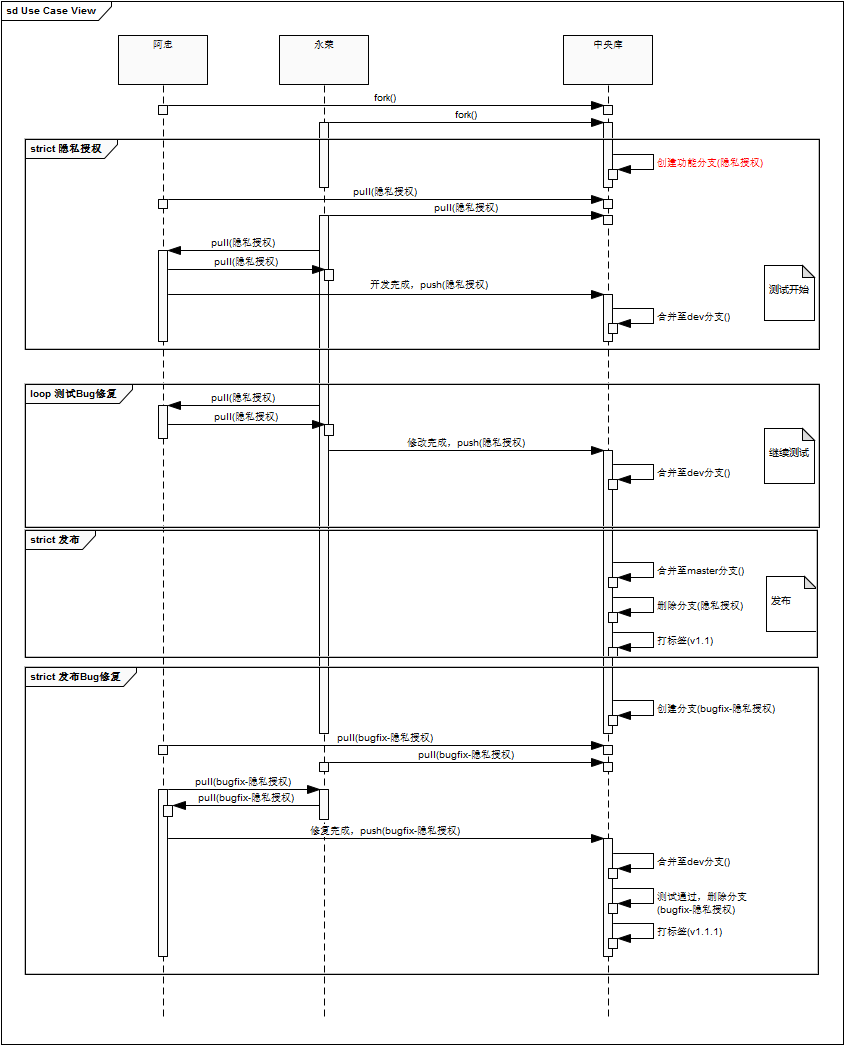
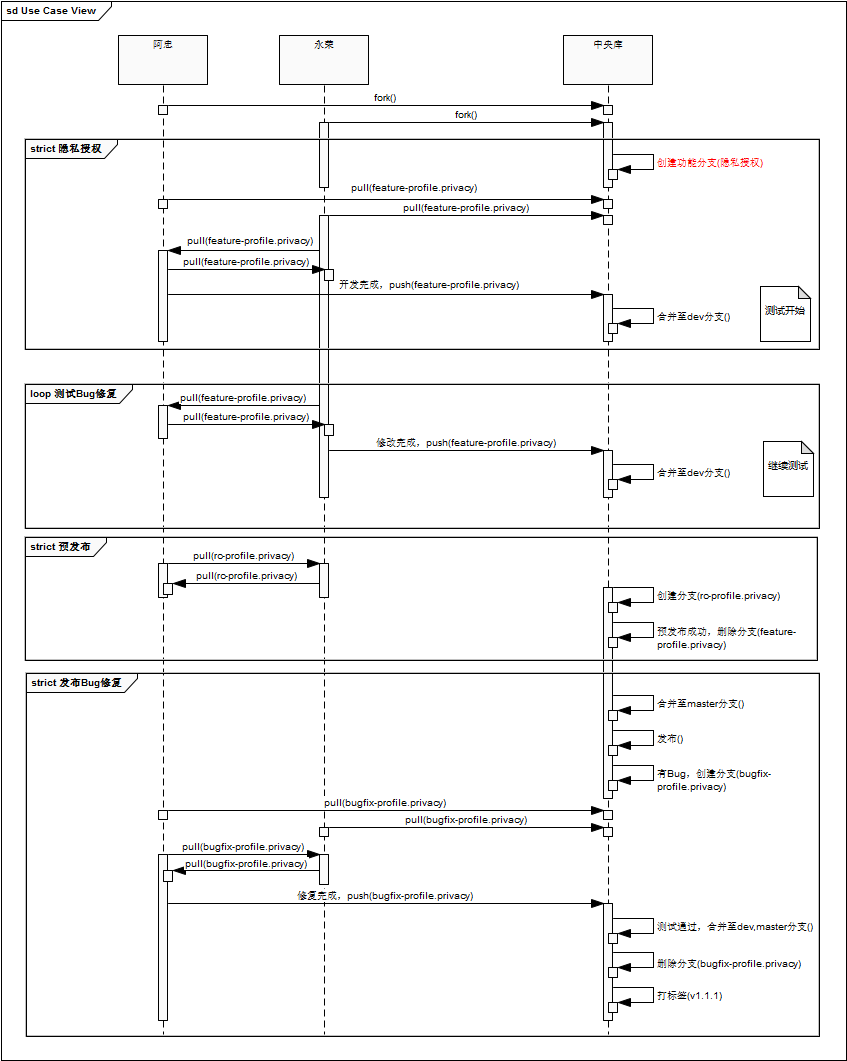
编写git工作流

diff --git a/docs/markdown/workflow/git-workflow.md b/docs/markdown/workflow/git-workflow.md
@@ -1,15 +1,82 @@
 # Git工作流
 
+- Sand Wen, 2016.06.14
+
 ## 背景：
 
 鉴于最近的代码管理松散，给开发，测试及发布过程带来的储多问题，现重构git管理流程，在原来的基础上增加新的管理环节。
-本次重构以“隐私授权”功能的开发为例，说明整个流程的开发过程。在阅读前，首先说明下本次改造的前提：
+本次重构以“隐私授权”功能的开发为例，设置角色：阿忠与永荣，版本为1.1.0。在阅读前，首先说明下本次改造的前提：
 
-- 中央库只维护master与dev分支
+- 中央库只维护master与dev分支。
 - 除了中央库的两个分支，还有三种临时性分支：功能分支，候选发布分支及Bug修复分支。
-- 标签只在master分支上
-- 临时分支创建原则：功能分支以feature-开头，候选发布分支以rc-开头，Bug修复分支以bugfix-开头
+- 标签只在master分支上。
+- 临时分支创建原则：功能分支以feature-开头，候选发布分支以rc-(release candidate)开头，Bug修复分支以bugfix-开头。
 
-接下来我们将以时序图的方式对Git开发流程进行讲解。
+以下是本次开发的工作流时序图：
 
-![Git工作流](../../images/git-flow.png)
+![Git工作流时序图](../../images/git-flow.png)
+
+## 流程
+
+### fork
+
+所有的开发者都必须先fork一份中央库的源代码。
+
+### 功能开发
+
+**分支创建**
+
+根据每月任务，由管理员创建分支。在开始隐私授权功能的开发之前，需要创建一个新的分支，根据命名约定，
+我们命名为：feature-profile.privacy。功能分支的创建可以有不同情况：
+
+- 在开发人员较少的时候，可以直接在某个开发者上创建这个分支，其他人员直接与这个用户互相pull/push，不需要管理员介入。
+- 在开发人员较多的时候，开发者之前直接pull/push会变得非常麻烦，此时最好是在中央库上创建这个分支，开发者与中央库pull/push，管理员负责合并代码。
+
+默认情况下，使用第二种情景，这会增加管理员的工作量，但如果代码审核不做，工作量并不会太多。本次，我们选择在主库上创建功能分支。
+
+**开发**
+
+分支创建成功之后，便可以开始开发工作，自行测试并提交，最后push到其他开发人员或主库的feature-profile.privacy上。
+
+注意：若开发者需要同时开发两个功能，例如隐私授权与资源化，按原则需要建立不同的分支，开发时需要切换到对应的分支，完成之后再提交合并。
+
+**合并至dev分支**
+
+在功能主体开发完成后，管理员需要将这些代码合并到dev分支。
+
+    git checkout dev
+    git merger -no-ff feature-profile.privacy
+    
+### 测试Bug修复
+
+经过测试人员的反馈，肯定有Bug存在(没有Bug当然更好)，此时开始测试Bug的修复。此过程与开发过程基本一致，开发人员开发，互相pull/push，
+完成后推送到主库，管理员再合并到dev分支。
+
+此时删除功能分支feature-profile.privacy。
+
+### 预发布
+
+**分支创建**
+
+“没有一次发布是完美一步到位的”，因此我们需要一个预发布，检测在生产环境中会出现哪些问题。在预发布之前，需要在dev的分支上创建预发布分支，
+预发布分支以rc-开头，并以发布的版本作为后缀，如：rc-1.1.0。
+
+**修复**
+
+预发布的过程中会暴露出问题，此时开发者着手修复这些问题，必要时开发者之间需要互相pull/push，在问题验证修复之后向主库推送，由管理员合并至rc-1.1.0分支。
+
+### 发布
+
+经过一轮的迭代，已经预发布成功了，此时便可以开始发布。管理员会将rc-1.1.0合并至master分支，并开始向生产环境中部署，并对外提供服务。
+
+**分支创建**
+
+在正式的服务过程中，依然会有Bug出现，但已经不需要非常大的修改，此时可以在master分支上创建bugfix分支，用于修复bug。
+根据约定，管理员需要创建bugfix-1.1.0分支。
+
+**修复**
+
+此时开发者从主库摘取bugfix-1.1.0分支，并开始处理，期间可能会与其他开发者互动,pull/push。待问题修复之后，推到主库，在测试通过之后，
+管理员将此分支合并至dev与master两个分支，若有需要可以在master分支上打个标签，如：1.1.1。
+
+至此，整个流程已经结束，按计划开始下一个流程。
